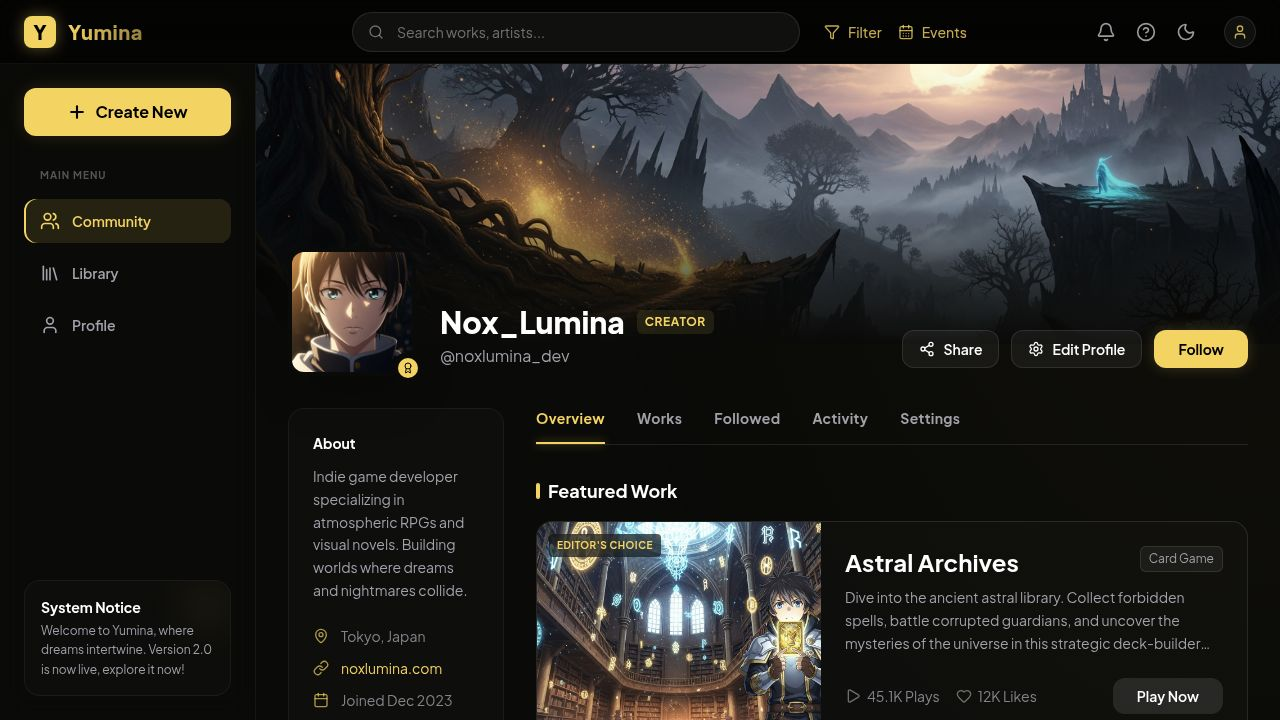
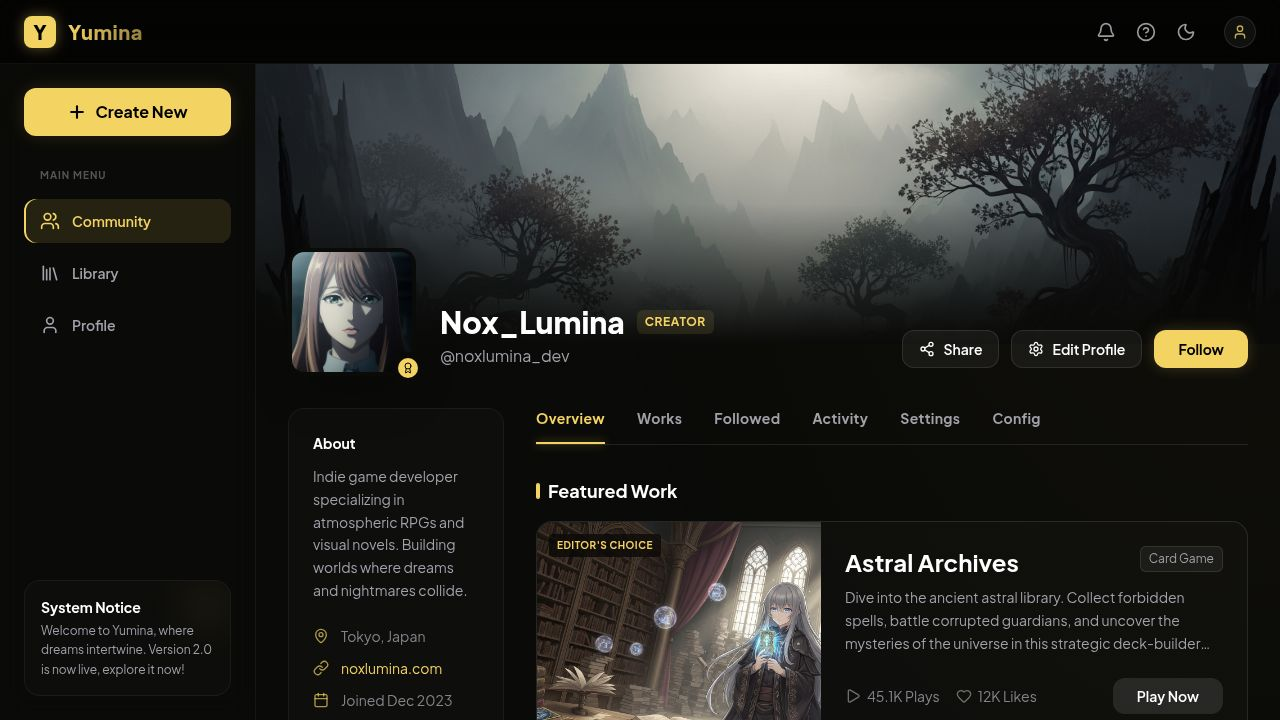
Update player profile to showcase recent activity and collections
Refactor the Profile Overview tab to display player-focused content like Recently Played, Collections, and Favorites, shifting creator works exclusively to the Works tab.

Replit-Commit-Author: Agent
Replit-Commit-Session-Id: 2bf4bc1f-5b8d-4408-a5e1-bce19f57df67
Replit-Commit-Checkpoint-Type: full_checkpoint
Replit-Commit-Event-Id: 3d7c89f0-468c-482a-be05-45d5eb5b0291
Replit-Commit-Screenshot-Url: https://storage.googleapis.com/screenshot-production-us-central1/da3ec460-5c42-4690-8057-380aca45b37c/2bf4bc1f-5b8d-4408-a5e1-bce19f57df67/lfVzG9E
Replit-Helium-Checkpoint-Created: true

diff --git a/client/src/pages/Profile.tsx b/client/src/pages/Profile.tsx
@@ -163,9 +163,9 @@ export default function Profile() {
 
               {/* Tab Content */}
               {activeTab === 'overview' && (
-                <div className="space-y-10">
+                <div className="space-y-10 animate-in fade-in slide-in-from-bottom-4 duration-500">
                   
-                  {/* Pinned/Featured Work */}
+                  {/* Pinned/Featured Work (Optional highlight chosen by creator) */}
                   <section>
                     <div className="flex items-center justify-between mb-4">
                       <h2 className="text-lg font-bold text-main flex items-center gap-2">
@@ -213,21 +213,21 @@ export default function Profile() {
                     </div>
                   </section>
 
-                  {/* Recent Works Grid */}
+                  {/* Recently Played */}
                   <section>
                     <div className="flex items-center justify-between mb-4">
                       <h2 className="text-lg font-bold text-main flex items-center gap-2">
                         <div className="w-1 h-4 bg-gold rounded-full"></div>
-                        Recent Works
+                        Recently Played
                       </h2>
                       <button className="text-sm font-semibold text-sub hover:text-gold transition-colors flex items-center gap-1">
                         View All <ChevronRight className="w-4 h-4" />
                       </button>
                     </div>
                     
-                    <div className="grid grid-cols-1 md:grid-cols-2 gap-5">
-                      {works.slice(0,2).map(work => (
-                        <div key={work.id} className="group rounded-2xl bg-white/[0.02] border border-white/5 overflow-hidden hover:border-gold/30 transition-all hover:bg-white/[0.04]">
+                    <div className="grid grid-cols-1 md:grid-cols-2 lg:grid-cols-3 gap-5">
+                      {works.map(work => (
+                        <div key={`played-${work.id}`} className="group rounded-2xl bg-white/[0.02] border border-white/5 overflow-hidden hover:border-gold/30 transition-all hover:bg-white/[0.04]">
                           <div className="aspect-[16/9] overflow-hidden relative">
                             <img src={work.image} alt={work.title} className="w-full h-full object-cover group-hover:scale-105 transition-transform duration-500" 
                               onError={(e) => { e.currentTarget.src = "https://images.unsplash.com/photo-1542751371-adc38448a05e?q=80&w=2000&auto=format&fit=crop"; }}
@@ -242,14 +242,45 @@ export default function Profile() {
                             <div className="flex justify-between items-start mb-1">
                               <h4 className="font-bold text-main group-hover:text-gold transition-colors">{work.title}</h4>
                             </div>
-                            <div className="text-xs text-sub mb-3">{work.genre}</div>
-                            <div className="flex items-center justify-between text-xs text-sub/60 pt-3 border-t border-white/5">
-                              <span className="flex items-center gap-1.5"><Play className="w-3.5 h-3.5" /> {work.plays}</span>
-                              <span className="flex items-center gap-1.5"><Heart className="w-3.5 h-3.5" /> {work.likes}</span>
+                            <div className="flex items-center gap-2 text-xs text-sub/60 mt-2">
+                              <Clock className="w-3.5 h-3.5" /> <span>Played {work.id * 2} hours ago</span>
                             </div>
                           </div>
                         </div>
                       ))}
+                    </div>
+                  </section>
+
+                  {/* Collections / Favorites */}
+                  <section>
+                    <div className="flex items-center justify-between mb-4">
+                      <h2 className="text-lg font-bold text-main flex items-center gap-2">
+                        <div className="w-1 h-4 bg-gold rounded-full"></div>
+                        Collections & Favorites
+                      </h2>
+                      <button className="text-sm font-semibold text-sub hover:text-gold transition-colors flex items-center gap-1">
+                        View All <ChevronRight className="w-4 h-4" />
+                      </button>
+                    </div>
+                    
+                    <div className="grid grid-cols-2 md:grid-cols-4 gap-4">
+                      <div className="group rounded-2xl bg-white/[0.02] border border-white/5 overflow-hidden hover:border-gold/30 transition-all cursor-pointer">
+                        <div className="aspect-square bg-gradient-to-br from-gold/20 to-base p-4 flex flex-col justify-end relative overflow-hidden">
+                          <Heart className="w-6 h-6 text-gold mb-2" fill="currentColor" />
+                          <h4 className="font-bold text-main relative z-10">Favorite Games</h4>
+                          <span className="text-xs text-sub relative z-10">24 Items</span>
+                          <div className="absolute top-0 right-0 w-24 h-24 bg-gold/10 rounded-full blur-xl -translate-y-1/2 translate-x-1/2"></div>
+                        </div>
+                      </div>
+                      
+                      <div className="group rounded-2xl bg-white/[0.02] border border-white/5 overflow-hidden hover:border-gold/30 transition-all cursor-pointer">
+                        <div className="aspect-square bg-gradient-to-br from-[#818cf8]/20 to-base p-4 flex flex-col justify-end relative overflow-hidden">
+                          <Clock className="w-6 h-6 text-[#818cf8] mb-2" />
+                          <h4 className="font-bold text-main relative z-10">Play Later</h4>
+                          <span className="text-xs text-sub relative z-10">12 Items</span>
+                          <div className="absolute top-0 right-0 w-24 h-24 bg-[#818cf8]/10 rounded-full blur-xl -translate-y-1/2 translate-x-1/2"></div>
+                        </div>
+                      </div>
                     </div>
                   </section>
                   
